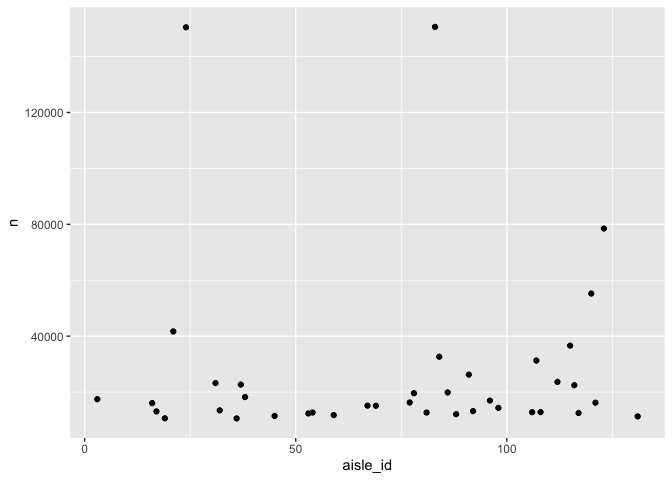
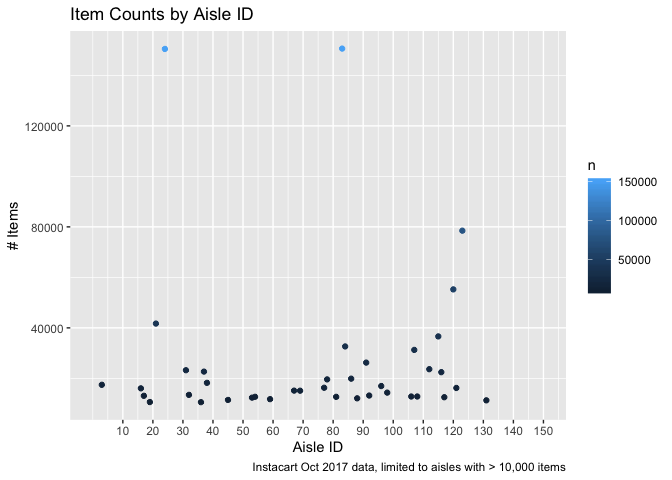
fixed scatterplot in #1

diff --git a/p8105_hw3_at3343.md b/p8105_hw3_at3343.md
@@ -64,10 +64,29 @@ instacart %>%
   group_by(aisle_id) %>% 
   summarize(n = n()) %>% 
   filter(n > 10000) %>% 
-  ggplot(aes(x = aisle_id, y = n)) + geom_point()
+  ggplot(aes(x = aisle_id, y = n, color = n)) + geom_point() + 
+  labs(
+    title = "Item Counts by Aisle ID",
+    x = "Aisle ID",
+    y = "# Items",
+    caption = "Instacart Oct 2017 data, limited to aisles with > 10,000 items") +
+  scale_x_continuous(
+    breaks = c(10, 20, 30, 40, 50, 60, 70, 80, 90, 100, 110, 120, 130, 140, 150), 
+    labels = c("10", "20", "30", "40", "50", "60", "70", "80", "90", "100", "110", "120", "130", "140", "150"),
+    limits = c(0, 150))
 ```
 
 ![](p8105_hw3_at3343_files/figure-gfm/unnamed-chunk-3-1.png)<!-- -->
+
+``` r
+  scale_y_continuous(
+    breaks = c(10000, 20000, 30000, 40000, 50000, 60000, 70000, 80000, 90000, 100000, 110000, 120000, 130000, 140000, 150000)
+  )
+```
+
+    ## <ScaleContinuousPosition>
+    ##  Range:  
+    ##  Limits:    0 --    1
 
 Creating a table showing the three most popular items in each of the
 aisles “baking ingredients”, “dog food care”, and “packaged vegetables
